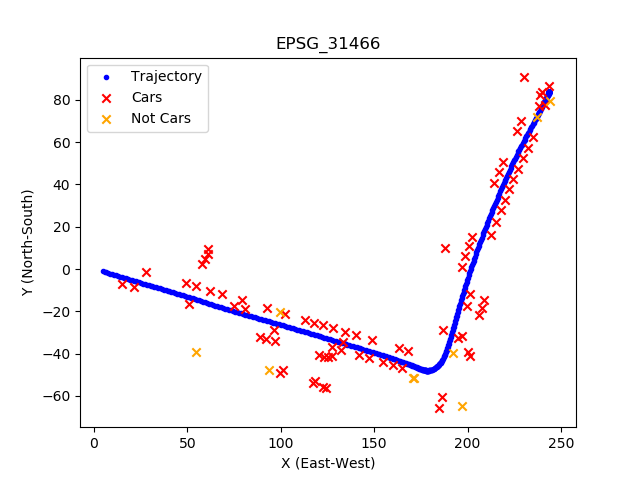
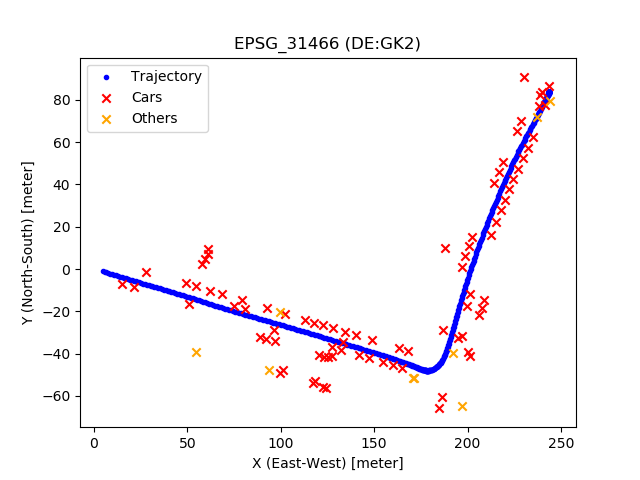
some updated

diff --git a/kitti/3dm/plot_umeyama3d.py b/kitti/3dm/plot_umeyama3d.py
@@ -31,55 +31,6 @@ from scipy.spatial.transform import Rotation
 import pyproj
 
 
-def umeyama_alignment(x, y, with_scale=False):
-    """
-    Computes the least squares solution parameters of an Sim(m) matrix
-    that minimizes the distance between a set of registered points.
-    Umeyama, Shinji: Least-squares estimation of transformation parameters
-                     between two point patterns. IEEE PAMI, 1991
-    :param x: mxn matrix of points, m = dimension, n = nr. of data points
-    :param y: mxn matrix of points, m = dimension, n = nr. of data points
-    :param with_scale: set to True to align also the scale (default: 1.0 scale)
-    :return: r, t, c - rotation matrix, translation vector and scale factor
-    """
-    # assert x.shape == y.shape
-
-    # m = dimension, n = nr. of data points
-    m, n = x.shape
-
-    # means, eq. 34 and 35
-    mean_x = x.mean(axis=1)
-    mean_y = y.mean(axis=1)
-
-    # variance, eq. 36
-    # "transpose" for column subtraction
-    sigma_x = 1.0 / n * (np.linalg.norm(x - mean_x[:, np.newaxis])**2)
-
-    # covariance matrix, eq. 38
-    outer_sum = np.zeros((m, m))
-    for i in range(n):
-        outer_sum += np.outer((y[:, i] - mean_y), (x[:, i] - mean_x))
-    cov_xy = np.multiply(1.0 / n, outer_sum)
-
-    # SVD (text betw. eq. 38 and 39)
-    u, d, v = np.linalg.svd(cov_xy)
-
-    # S matrix, eq. 43
-    s = np.eye(m)
-    if np.linalg.det(u) * np.linalg.det(v) < 0.0:
-        # Ensure a RHS coordinate system (Kabsch algorithm).
-        s[m - 1, m - 1] = -1
-
-    # rotation, eq. 40
-    r = u.dot(s).dot(v)
-
-    # scale & translation, eq. 42 and 41
-    c = 1 / sigma_x * np.trace(np.diag(d).dot(s)) if with_scale else 1.0
-    t = mean_y - np.multiply(c, r.dot(mean_x))
-
-    return r, t, c
-
-
 def align_umeyama(model, data, known_scale=False, yaw_only=False):
     """Implementation of the paper: S. Umeyama, Least-Squares Estimation
     of Transformation Parameters Between Two Point Patterns,
@@ -130,6 +81,60 @@ def align_umeyama(model, data, known_scale=False, yaw_only=False):
 
 
 def plot_trajectory(gt, est, epsg=3857):
+
+    fig = plt.figure()
+    ax = fig.add_subplot(111, projection='3d')
+    for est_p in est:
+        ax.scatter(est_p[0], est_p[1], est_p[2], c='red',  marker='.')
+    ax.scatter(0., 0., 0., c='black', marker='x')
+    ax.set_xlabel('X')
+    ax.set_ylabel('Y')
+    ax.set_zlabel('Z')
+    plt.title("Camera 3D")
+    plt.legend(['trajectory'], loc="best")
+    plt.savefig("plot_camera-3d.png")
+    plt.show()
+    plt.close()
+
+    fig = plt.figure()
+    ax = fig.add_subplot(111)
+    for i, est_p in enumerate(est):
+        ax.scatter(est_p[0], est_p[1], c='red',  marker='.')
+    ax.scatter(0., 0., c='black', marker='x')
+    ax.set_xlabel('X')
+    ax.set_ylabel('Y')
+    plt.title("Camera X-Y")
+    plt.legend(['trajectory'], loc="best")
+    plt.savefig("plot_camera-xy.png")
+    plt.show()
+    plt.close()
+
+    fig = plt.figure()
+    ax = fig.add_subplot(111)
+    for est_p in est:
+        ax.scatter(est_p[0], est_p[2], c='red',  marker='.')
+    ax.scatter(0., 0., c='black', marker='x')
+    ax.set_xlabel('X')
+    ax.set_ylabel('Z')
+    plt.title("Camera X-Z")
+    plt.legend(['trajectory'], loc="best")
+    plt.savefig("plot_camera-xz.png")
+    plt.show()
+    plt.close()
+
+    fig = plt.figure()
+    ax = fig.add_subplot(111)
+    for est_p in est:
+        ax.scatter(est_p[2], est_p[1], c='red',  marker='.')
+    ax.scatter(0., 0., c='black', marker='x')
+    ax.set_xlabel('Z')
+    ax.set_ylabel('Y')
+    plt.title("Camera Z-Y")
+    plt.legend(['trajectory'], loc="best")
+    plt.savefig("plot_camera-zy.png")
+    plt.show()
+    plt.close()
+
     trans_from = pyproj.Proj('+init=EPSG:%s' % 4326)
     trans_to   = pyproj.Proj('+init=EPSG:%s' % epsg)
 
@@ -160,11 +165,11 @@ def plot_trajectory(gt, est, epsg=3857):
     for i, (gt_p, est_p) in enumerate(zip(gt_trans, est_umeyama)):
         ax.scatter( gt_p[0],  gt_p[1],  gt_p[2], c='blue', marker='.')
         ax.scatter(est_p[0], est_p[1], est_p[2], c='red',  marker='.')
-    ax.set_xlabel('X (East-West)')
-    ax.set_ylabel('Y (North-South)')
-    ax.set_zlabel('Z (Altitude)')
-    plt.title("EPSG_%s" % epsg)
-    plt.legend(['ground truth', 'estimate'], loc="best")
+    ax.set_xlabel('X (East-West) [meter]')
+    ax.set_ylabel('Y (North-South) [meter]')
+    ax.set_zlabel('Z (Altitude) [meter]')
+    plt.title("EPSG_%s (DE:GK2)" % 31466)
+    plt.legend(['ground truth', 'trajectory'], loc="best")
     plt.savefig("plot_EPSG%s-3d.png" % epsg)
     plt.show()
     plt.close()
@@ -174,10 +179,10 @@ def plot_trajectory(gt, est, epsg=3857):
     for i, (gt_p, est_p) in enumerate(zip(gt_trans, est_umeyama)):
         ax.scatter( gt_p[0],  gt_p[1], c='blue', marker='.')
         ax.scatter(est_p[0], est_p[1], c='red',  marker='.')
-    ax.set_xlabel('X (East-West)')
-    ax.set_ylabel('Y (North-South)')
-    plt.title("EPSG_%s" % epsg)
-    plt.legend(['ground truth', 'estimate'], loc="best")
+    ax.set_xlabel('X (East-West) [meter]')
+    ax.set_ylabel('Y (North-South) [meter]')
+    plt.title("EPSG_%s (DE:GK2)" % 31466)
+    plt.legend(['ground truth', 'trajectory'], loc="best")
     plt.savefig("plot_EPSG%s-xy.png" % epsg)
     plt.show()
     plt.close()
@@ -187,11 +192,24 @@ def plot_trajectory(gt, est, epsg=3857):
     for i, (gt_p, est_p) in enumerate(zip(gt_trans, est_umeyama)):
         ax.scatter( gt_p[0],  gt_p[2], c='blue', marker='.')
         ax.scatter(est_p[0], est_p[2], c='red',  marker='.')
-    ax.set_xlabel('X (East-West)')
-    ax.set_ylabel('Z (Altitude)')
-    plt.title("EPSG_%s" % epsg)
-    plt.legend(['ground truth', 'estimate'], loc="best")
+    ax.set_xlabel('X (East-West) [meter]')
+    ax.set_ylabel('Z (Altitude) [meter]')
+    plt.title("EPSG_%s (DE:GK2)" % 31466)
+    plt.legend(['ground truth', 'trajectory'], loc="best")
     plt.savefig("plot_EPSG%s-xz.png" % epsg)
+    plt.show()
+    plt.close()
+
+    fig = plt.figure()
+    ax = fig.add_subplot(111)
+    for i, (gt_p, est_p) in enumerate(zip(gt_trans, est_umeyama)):
+        ax.scatter( gt_p[1],  gt_p[2], c='blue', marker='.')
+        ax.scatter(est_p[1], est_p[2], c='red',  marker='.')
+    ax.set_xlabel('Y (North-South) [meter]')
+    ax.set_ylabel('Z (Altitude) [meter]')
+    plt.title("EPSG_%s (DE:GK2)" % 31466)
+    plt.legend(['ground truth', 'trajectory'], loc="best")
+    plt.savefig("plot_EPSG%s-yz.png" % epsg)
     plt.show()
     plt.close()
 

diff --git a/kitti/3dm/README.md b/kitti/3dm/README.md
@@ -126,9 +126,13 @@ R[0,0] R[0,1] R[0,2] t[0] R[1,0] R[1,1] R[1,2] t[1] R[2,0] R[2,1] R[2,2] t[2] s
 -0.261392 0.027647 0.964837 4.624747 -0.962645 0.065678 -0.262680 -1.049018 -0.070631 -0.997458 0.009446 -0.087966 21.330576
 ```
 
-|3D|X-Z|X-Y| 
+|Camera 3D|Camera X-Z|Camera X-Y| 
 |---|---|---|
-|![3D](outputs/plot_EPSG31466-3d.png)|![X-Z](outputs/plot_EPSG31466-xz.png)|![X-Y](outputs/plot_EPSG31466-xy.png)|
+|![3D](outputs/plot_camera-3d.png)|![X-Z](outputs/plot_camera-xz.png)|![X-Y](outputs/plot_camera-xy.png)|
+
+|EPSG31466 (DE:GK2) 3D|EPSG31466 (DE:GK2) X-Y|EPSG31466 (DE:GK2) X-Y| 
+|---|---|---|
+|![3D](outputs/plot_EPSG31466-3d.png)|![X-Y](outputs/plot_EPSG31466-xy.png)|![X-Z](outputs/plot_EPSG31466-xz.png)|
 
 - Estimate 3D position using camera poses. (`frameTrajectory.txt`)
 
